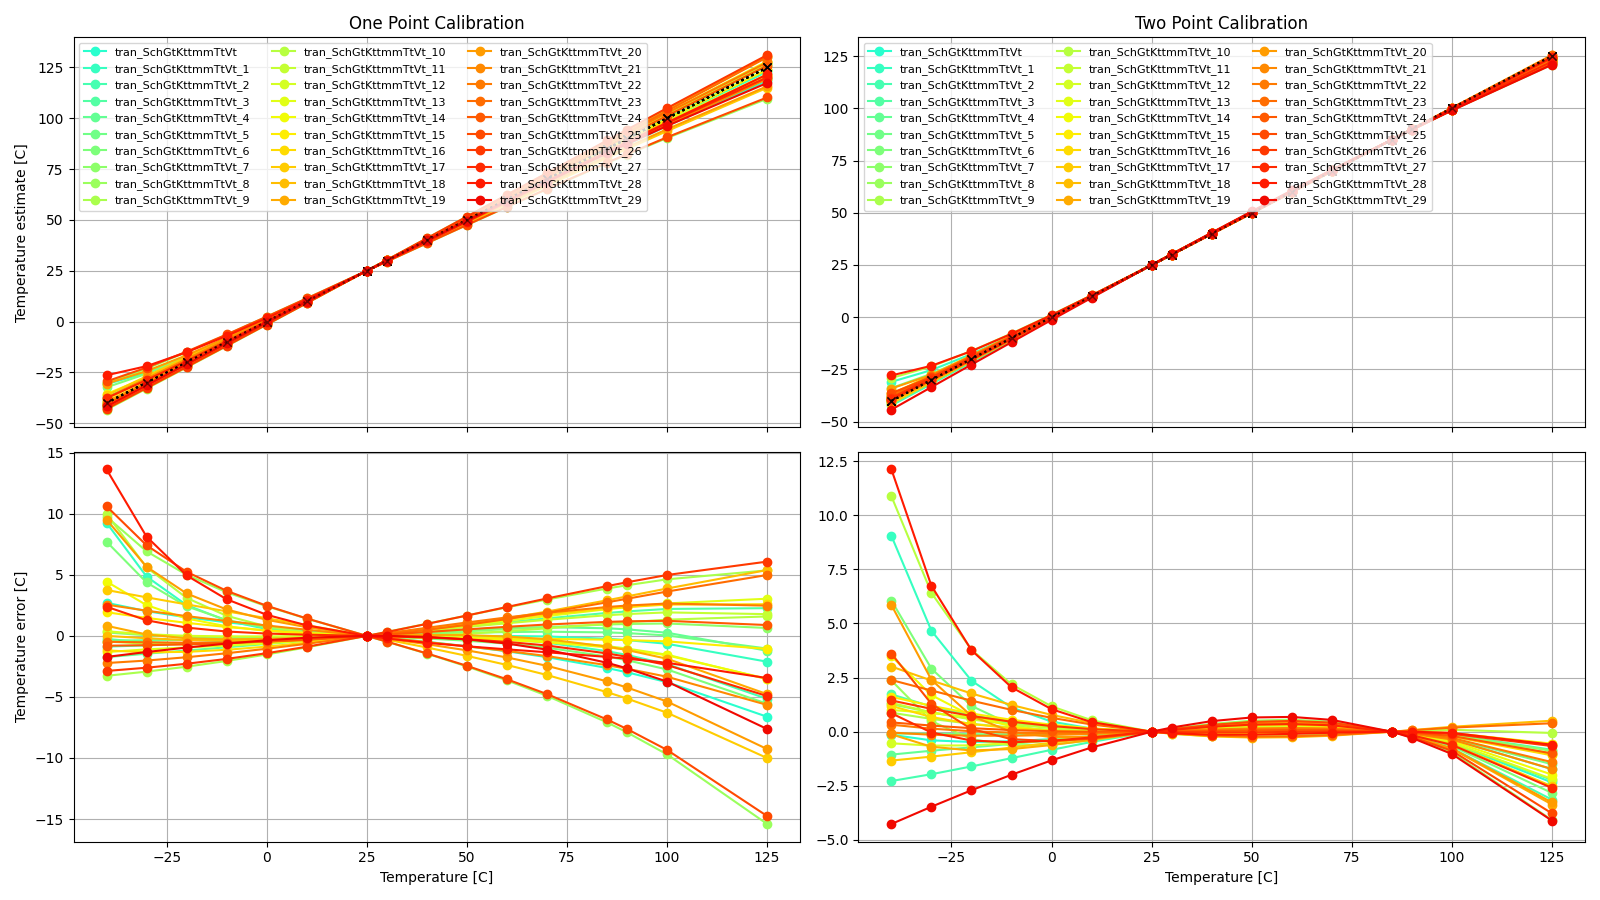
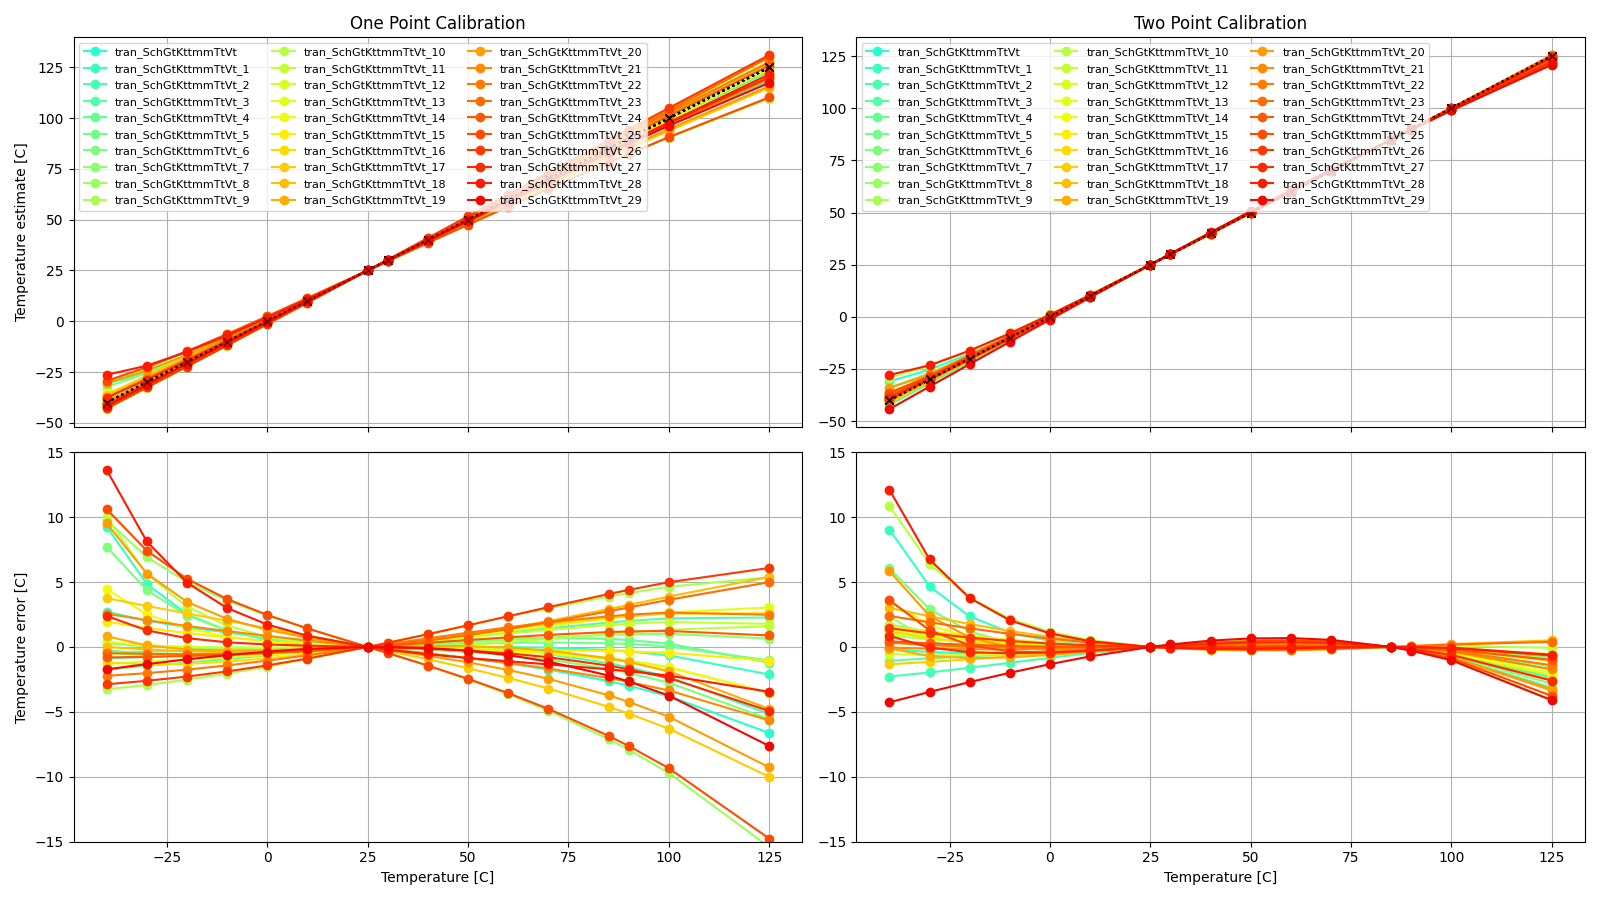
Updated model of verilog to match actual implementation

diff --git a/sim/LELO_TEMP/tran.py b/sim/LELO_TEMP/tran.py
@@ -109,7 +109,9 @@ def main(name,corner=None,show=False,ax=None,redColor="red",blueColor="blue"):
   ax[0][0].grid(True)
   ax[0][1].grid(True)  
   ax[1][0].grid(True)  
-  ax[1][1].grid(True)  
+  ax[1][1].grid(True)
+  ax[1][0].set_ylim(-15,15)
+  ax[1][1].set_ylim(-15,15)
  # ax[2].grid(True)
   #ax[3].grid(True)
   #- Use font size small for the legend with multiple columns

diff --git a/model.py b/model.py
@@ -28,7 +28,7 @@ def getR(temperature):
     return R_tcomp
 
 def getC():
-    return 53e-15*10
+    return 53e-15*5
 
 def calcTKelvinFromFreq(freq,temperature=25):
     #- f = 2/RC*DeltaV/Vc

diff --git a/design/LELO_TEMP_SKY130A/LELO_TEMP.md b/design/LELO_TEMP_SKY130A/LELO_TEMP.md
@@ -1,6 +1,6 @@
 
 Bandgap (LEOTEMP\_BIAS\_IPB) is used to provide a PTAT current for the frequency
-conversion and the comparator. The VD is the CTAT diode voltage in the bandgap.
+conversion and the comparator. The $V_C$ is the CTAT diode voltage in the bandgap.
 The output current is approximately 1 uA.
 
 The current charges the capacitor. When the voltage on the capacitor reaches $V_C$
